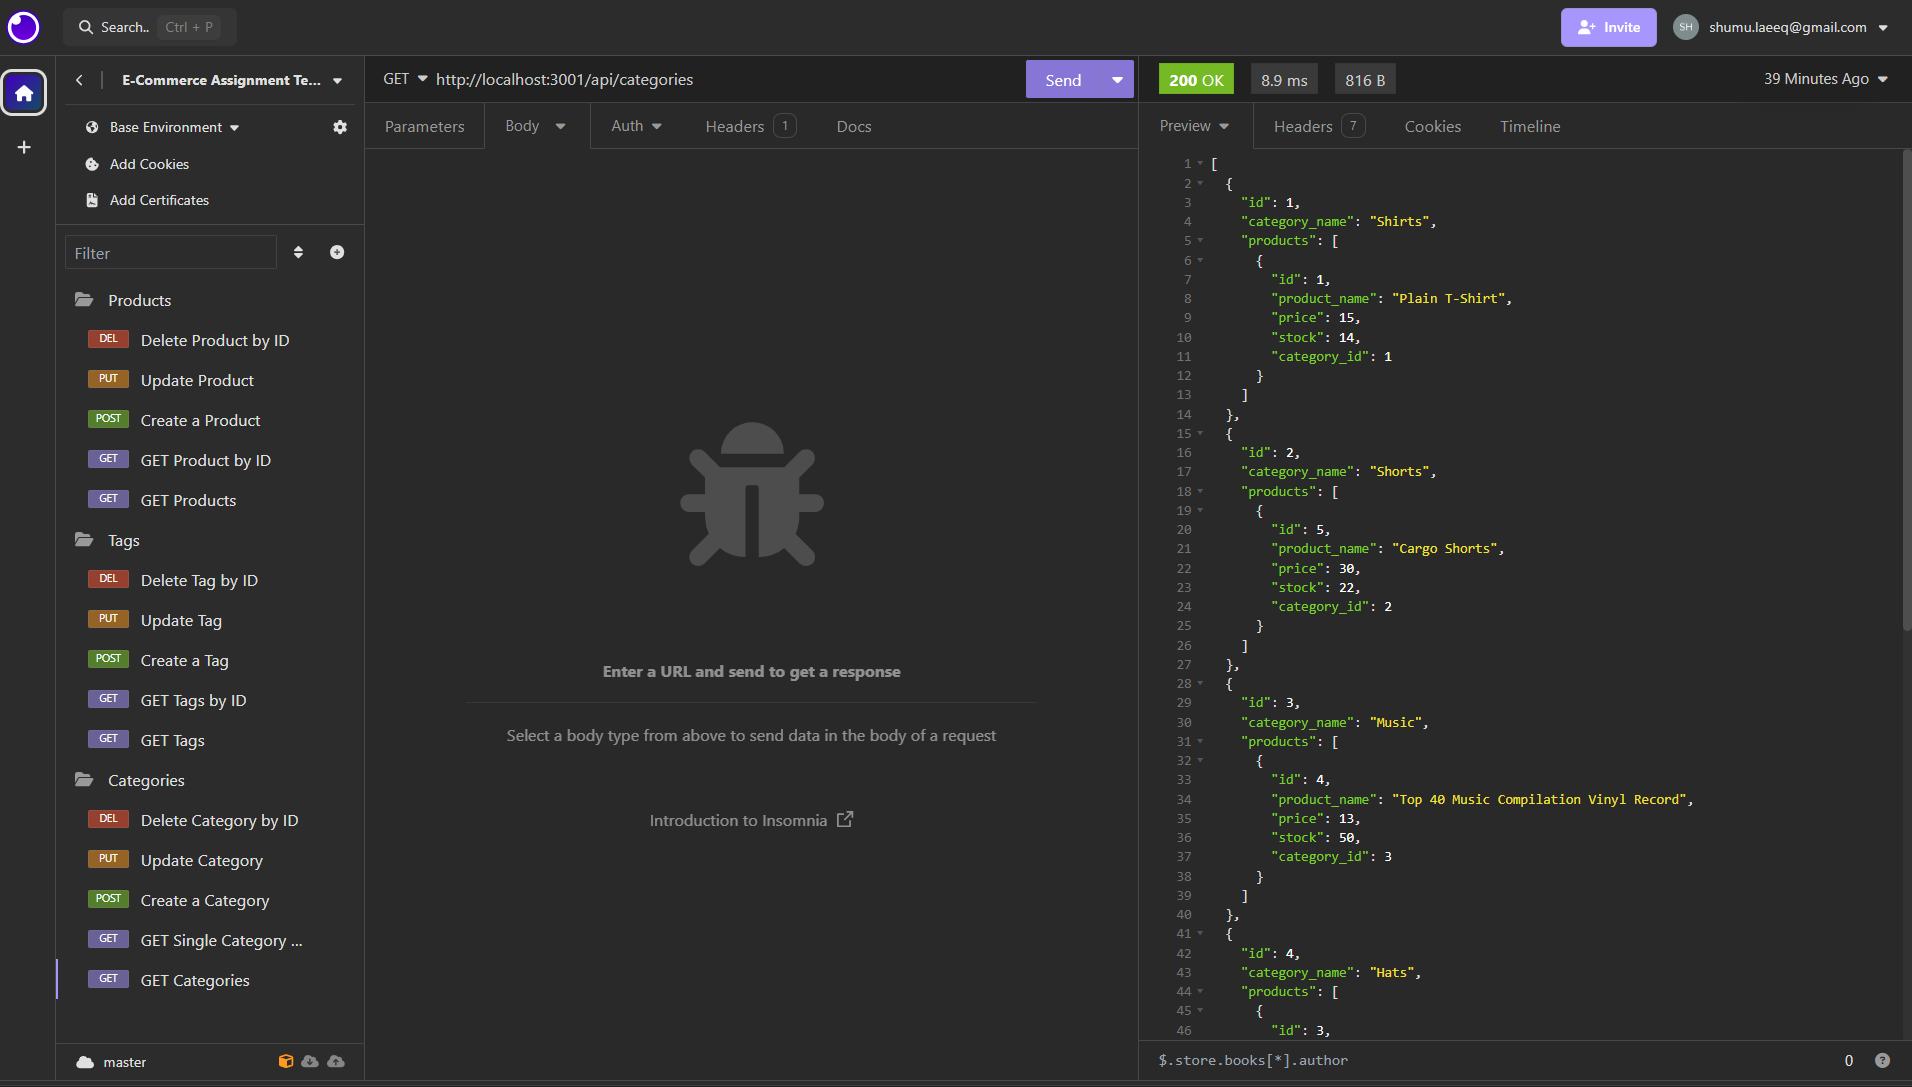
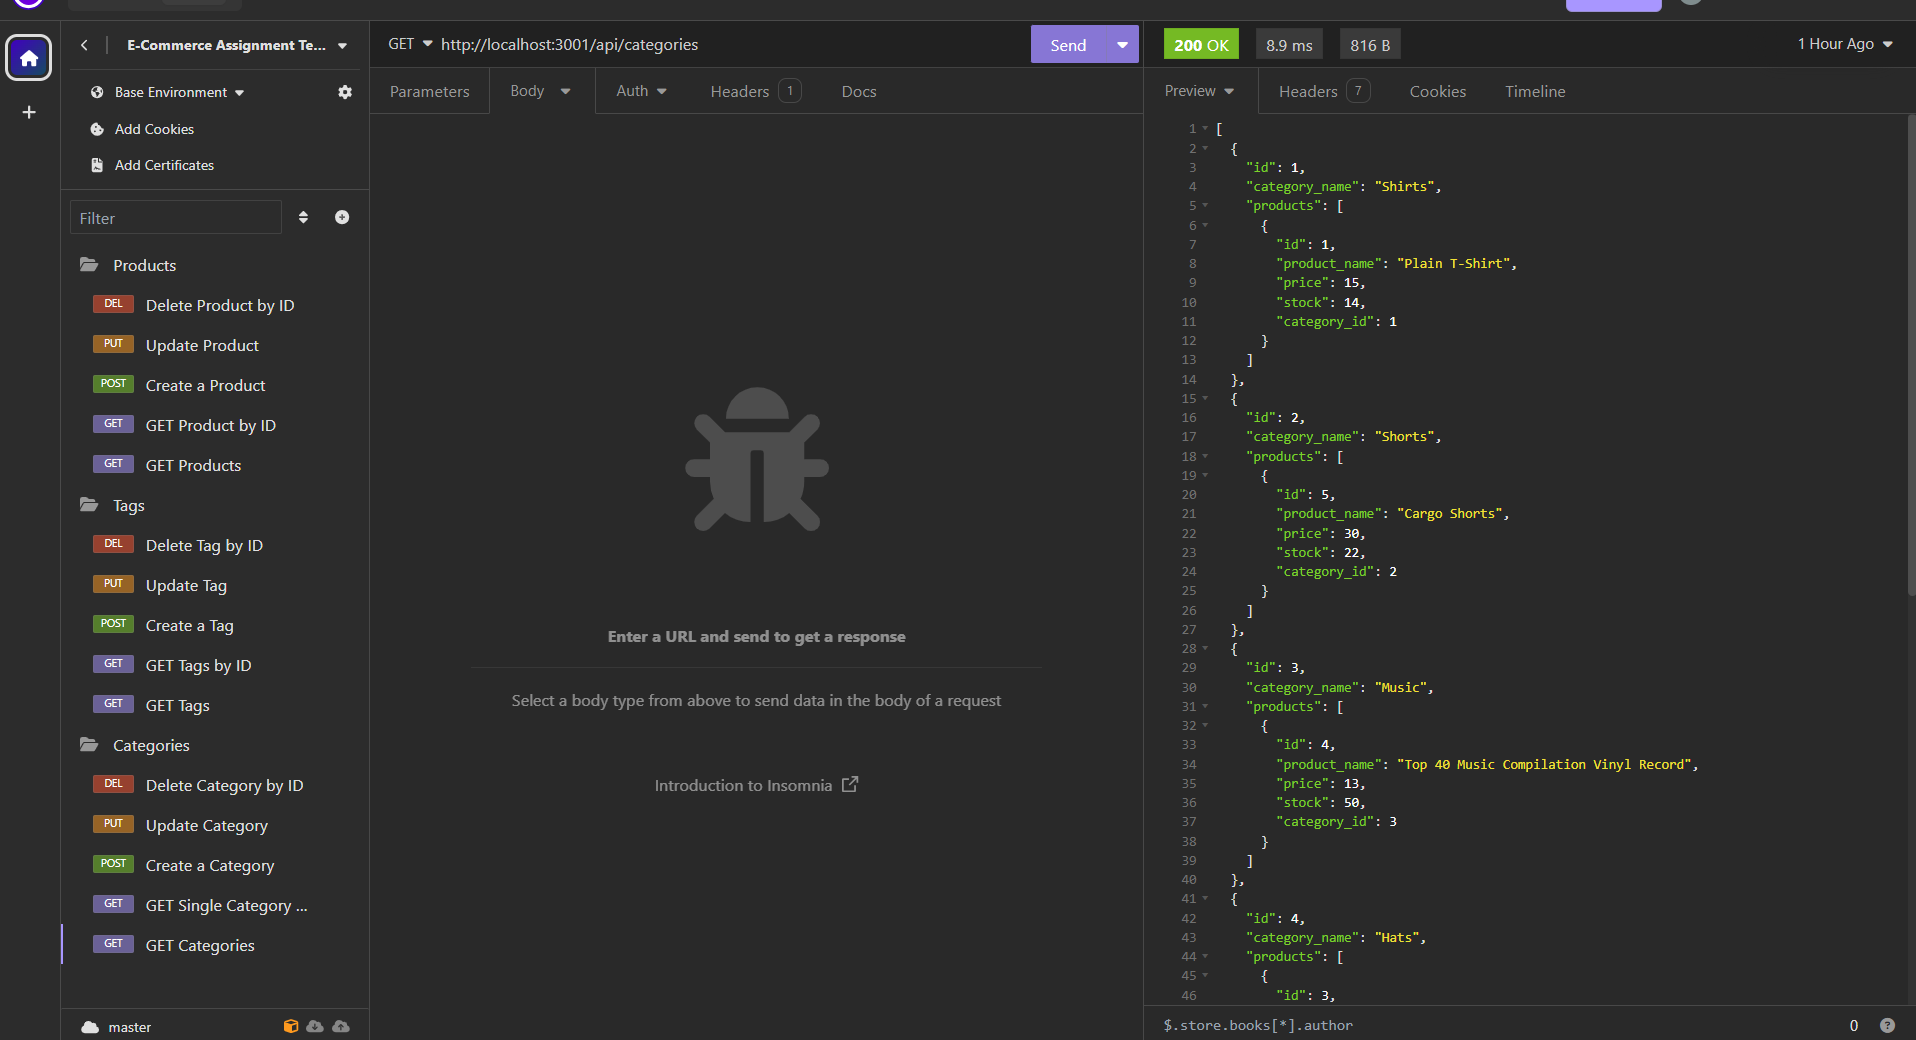
updated screenshot

diff --git a/README.md b/README.md
@@ -28,5 +28,5 @@ THEN I am able to successfully create, update, and delete data in my database
 ## Screenshot
 
 ```md
-![image](https://github.com/shumaela/sh-Ecommerce/blob/main/assets/images/Insomnia%20Screenshot.png?raw=true)
+![image](https://github.com/shumaela/sh-Ecommerce/assets/147661185/9dc4099a-f637-438b-8955-b12561f9e34d)
 ```
